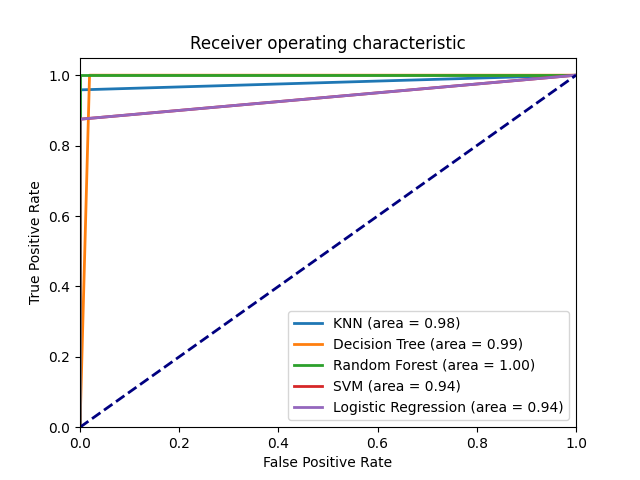
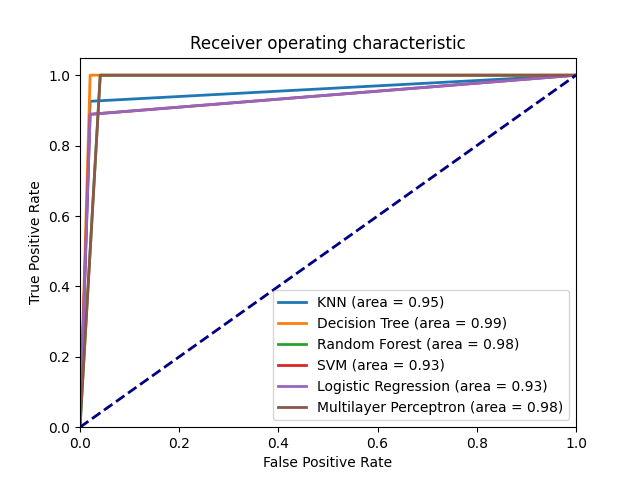
Changed evaluation metrics to StratifiedKFold

Changed region(s): [[0.4375, 0.5938, 0.8438, 0.875], [0.125, 0.125, 0.9062, 0.8125], [0.8125, 0.8125, 0.875, 0.875]]

diff --git a/main.py b/main.py
@@ -4,6 +4,9 @@ from sklearn.model_selection import train_test_split
 from sklearn.preprocessing import StandardScaler
 from sklearn.metrics import confusion_matrix
 from sklearn.metrics import roc_curve, auc
+from sklearn.metrics import classification_report
+from sklearn.model_selection import StratifiedKFold
+from sklearn.model_selection import cross_val_score
 import matplotlib.pyplot as plt
 
 # Classifiers
@@ -12,6 +15,7 @@ from sklearn.tree import DecisionTreeClassifier
 from sklearn.ensemble import RandomForestClassifier
 from sklearn.svm import SVC
 from sklearn.linear_model import LogisticRegression
+from sklearn.neural_network import MLPClassifier
 
 import rasterio
 from rasterio.plot import show
@@ -77,7 +81,7 @@ def get_best_classifier(classifiers, classifiersNames, X_test, y_test):
         y_pred = classifier.predict(X_test)
         score = classifier.score(X_test, y_test)
 
-        if score > bestScore:
+        if score >= bestScore:
             bestClassifier = classifier
             bestClassifierName = name
             bestScore = score
@@ -87,15 +91,10 @@ def get_best_classifier(classifiers, classifiersNames, X_test, y_test):
     return bestClassifier
 
 # Plot the confusion matrix
-def plot_confusion_matrix(classifier, X_test, y_test):
+def plot_cf(classifier, X_test, y_test):
     # Compute confusion matrix
-    cnf_matrix = confusion_matrix(y_test, classifier.predict(X_test))
-    np.set_printoptions(precision=2)
-
-    # Plot non-normalized confusion matrix
-    plt.figure()
-
-
+    # Plot cnf matrix without normalization using ConfusionMatrixDisplay.from_estimator
+    # TODO:VER SE É PRECISO
     plt.savefig('ConfusionMatrix.png')
     
 #============================================================ MAIN ============================================================
@@ -114,8 +113,8 @@ if __name__ == "__main__":
     # Deal with missing values in dataset (replace with mean)
     X = X.fillna(X.mean())
 
-    # Split dataset into training and testing using cross validation    
-    X_train, X_test, y_train, y_test = train_test_split(X, y, test_size=0.2, random_state=0)
+    # Split the dataset randomly into training and testing using cross validation
+    X_train, X_test, y_train, y_test = train_test_split(X, y, test_size=0.2)
 
     # Standardize features values to be between 0 and 1 (for better performance)
     scaler = StandardScaler()
@@ -123,23 +122,25 @@ if __name__ == "__main__":
     X_test = scaler.transform(X_test)
     
     # Create a list of classifiers
-    classifiersNames = ['KNN', 'Decision Tree', 'Random Forest', 'SVM', 'Logistic Regression']
+    classifiersNames = ['KNN', 'Decision Tree', 'Random Forest', 'SVM', 'Logistic Regression', 'Multilayer Perceptron']
 
     classifiers = [ KNeighborsClassifier(n_neighbors=3),
                     DecisionTreeClassifier(),
                     RandomForestClassifier(n_estimators=100),
                     SVC(),
-                    LogisticRegression() 
+                    LogisticRegression(),
+                    MLPClassifier(hidden_layer_sizes=(100, 100, 100), max_iter=1000)
                 ]
 
     # Train each classifier
     for classifier in classifiers:
         classifier.fit(X_train, y_train)
 
-    # Predict using each classifier
+    # Evaluate each classifier using cross validation and f1 score (to avoid overfitting)
+    skf = StratifiedKFold(n_splits=10, shuffle=True)
     for classifier, name in zip(classifiers, classifiersNames):
-        y_pred = classifier.predict(X_test)
-        print(name + ' : '+ str(classifier.score(X_test, y_test)))
+        scores = cross_val_score(classifier, X, y, cv=skf) # cross_val_score returns the f1 score for each fold of the cross validation (10 folds) 
+        print(name + ' : ' + str(scores.mean())) # Print the mean of the f1 scores
 
     # Plot the ROC curve
     plot_roc_curve(classifiers, classifiersNames, X_test, y_test)
@@ -147,5 +148,7 @@ if __name__ == "__main__":
     # Chose the best classifier using f1 score
     bestClassifier = get_best_classifier(classifiers, classifiersNames, X_test, y_test)
 
-    # Plot the confusion matrix for the best classifier
-    plot_confusion_matrix(bestClassifier, X_test, y_test)
+    # Predict using the best classifier
+    y_pred = bestClassifier.predict(X_test)
+
+    print(classification_report(y_test, y_pred))
